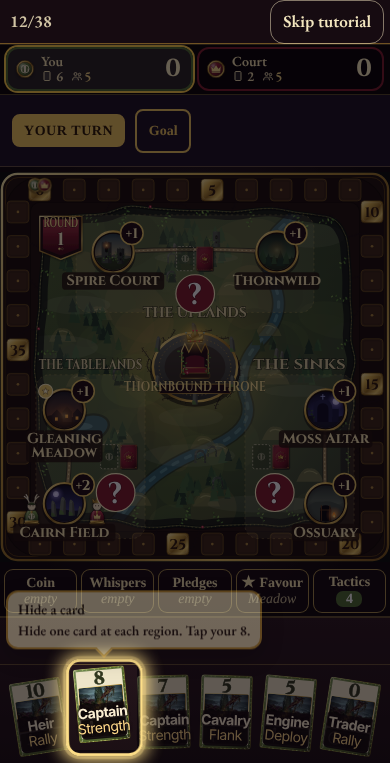
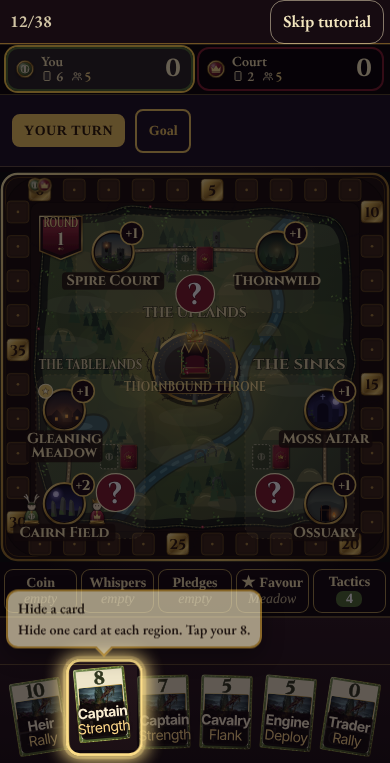
thornbound: tapping a region or location before picking a card now answers ('Pick a card first' there and the hand nudges) instead of doing nothing (found in the cold play)

Changed region(s): [[0.0, 0.7536, 0.6769, 0.8742]]

diff --git a/games-src/thornbound/game/src/ui10.js b/games-src/thornbound/game/src/ui10.js
@@ -45,10 +45,12 @@ function commitCard(id,c){UI.hand=null;
   return ok}
 // ---------------------------------------------------------------- taps on the map
 function regionTap(r){const M=UI.bf;if(!M||!M.kind||(UI.card&&UI.card.kind!=='tip'))return false;
-  if(M.kind==='place'||M.kind==='tie'){if(UI.hand!=null){const c=cardMoves(UI.hand).find(x=>x.type==='region'&&x.r===r);if(c){commitCard(UI.hand,c);return true}}return false}
+  if(M.kind==='place'||M.kind==='tie'){if(UI.hand!=null){const c=cardMoves(UI.hand).find(x=>x.type==='region'&&x.r===r);if(c){commitCard(UI.hand,c);return true}}else nudgeHand(r);return false}
   if(M.kind==='menu'){const m=M.mv.find(x=>x.t==='act'&&x.a==='supp'&&x.p&&x.p.r===r&&x.p.n===1);if(m){bfPopAt(regionRect(r),'+1',fcol(M.s));humanMove(m.k);return true}return false}
   if(M.kind==='clashOrder'){orderTap(r);return true}
   return false}
+// F15 (cold play): a region tapped before a card was picked answers, instead of doing nothing: "Pick a card first" there, and the hand nudges once
+function nudgeHand(r){try{bfPopAt(regionRect(r),'Pick a card first','#fff2a8');toast('Pick a card from your hand first, then tap the region.');const h=$('#handw');if(h){h.classList.remove('tb-nudge');void h.offsetWidth;h.classList.add('tb-nudge');setTimeout(()=>h.classList.remove('tb-nudge'),700)}}catch(e){}}
 function locTap(l){const M=UI.bf;if(!M||!M.kind||(UI.card&&UI.card.kind!=='tip'))return false;
   if(M.kind==='herald'||M.kind==='location'){const m=M.mv.find(x=>x.loc===l);if(m){humanMove(m.k);return true}return false}
   return regionTap(l>>1)}

diff --git a/games-src/thornbound/game/src/head.html b/games-src/thornbound/game/src/head.html
@@ -441,6 +441,7 @@ html.bf-w #main.on{position:static;flex:1 1 auto;max-height:none;border-radius:0
 .tbx-pan g[data-reg]{cursor:pointer}
 .tbx-pan g.rglow rect{stroke:#ffe9a0;stroke-opacity:1;stroke-dasharray:none;stroke-width:6;fill-opacity:.3;animation:rgl 1.1s ease-in-out 3}
 .tbx-pan g.rrec rect{stroke:#fff;stroke-width:9;fill:#ffe9a0;fill-opacity:.4}
+#handw.tb-nudge{animation:tbnudge .55s ease-out}@keyframes tbnudge{20%{transform:translateY(-8px)}40%{transform:translateY(0)}60%{transform:translateY(-5px)}100%{transform:none}}@media (prefers-reduced-motion:reduce){#handw.tb-nudge{animation:none}}
 @keyframes rgl{50%{stroke-opacity:.45;fill-opacity:.16}}
 .tb-map .tb-loc.glow .tb-ring{opacity:1!important}
 .tb-map .tb-loc.rec .tb-ring{stroke:#fff;stroke-width:8}
